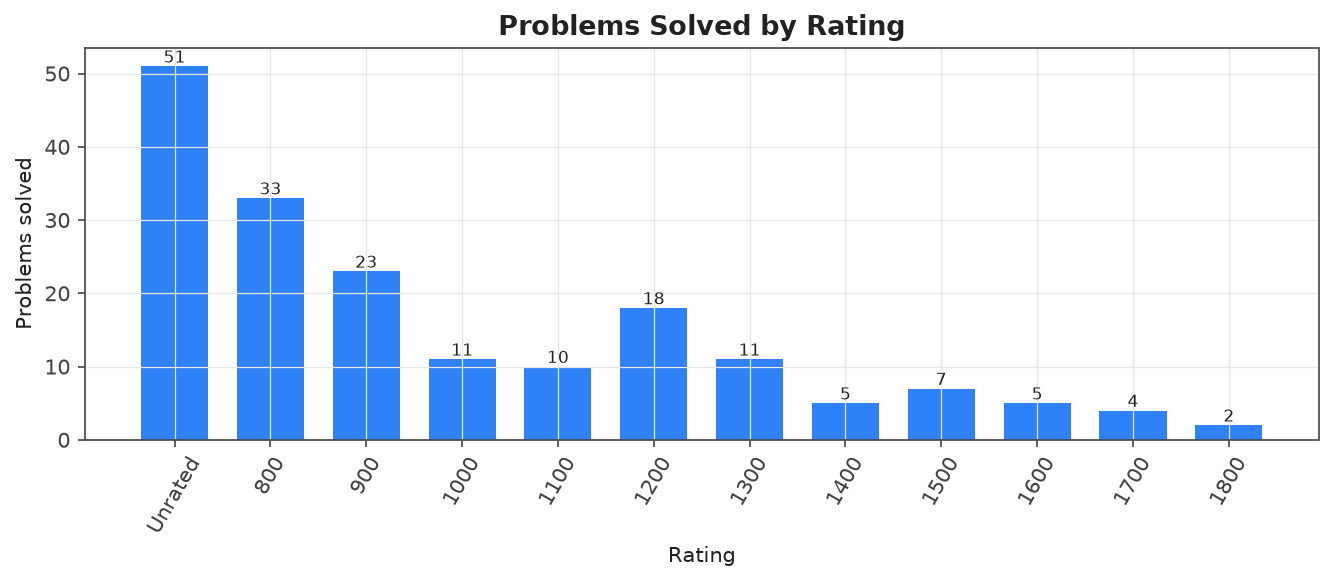
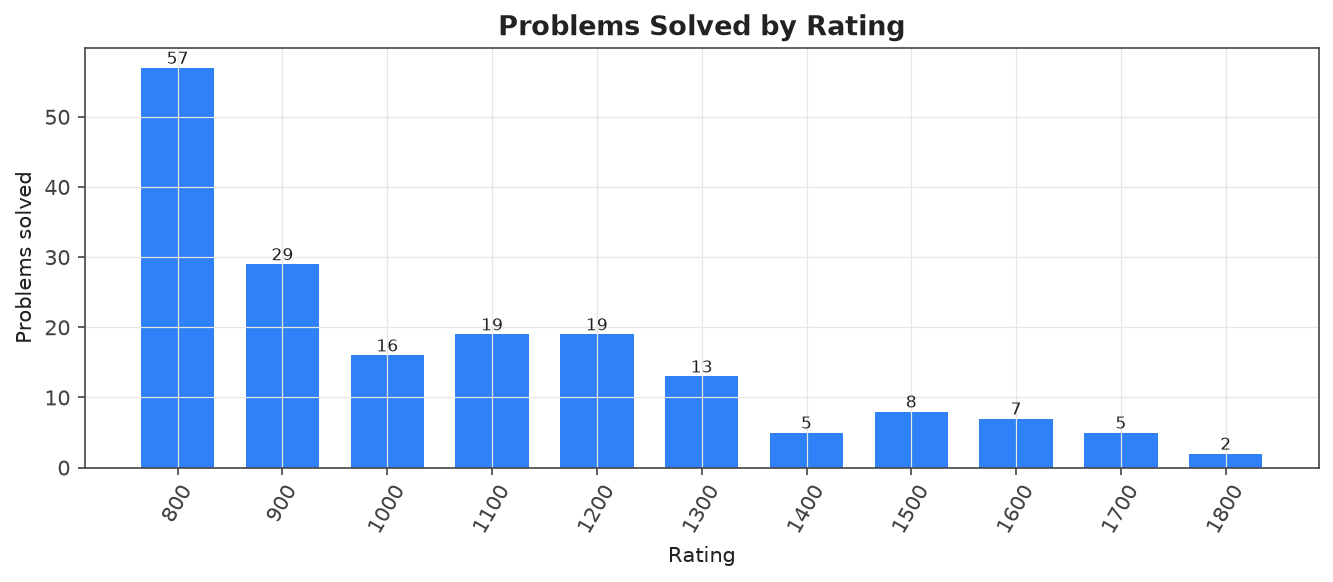
Sync: refresh analytics (rating/streak update, no new problems)

diff --git a/README.md b/README.md
@@ -37,18 +37,17 @@ Auto-generated archive of accepted Codeforces submissions for **[om_sharma_](htt
 
 | Rating | Count |
 |---|---|
-| 0800 | 33 |
-| 0900 | 23 |
-| 1000 | 11 |
-| 1100 | 10 |
-| 1200 | 18 |
-| 1300 | 11 |
+| 0800 | 57 |
+| 0900 | 29 |
+| 1000 | 16 |
+| 1100 | 19 |
+| 1200 | 19 |
+| 1300 | 13 |
 | 1400 | 5 |
-| 1500 | 7 |
-| 1600 | 5 |
-| 1700 | 4 |
+| 1500 | 8 |
+| 1600 | 7 |
+| 1700 | 5 |
 | 1800 | 2 |
-| Unrated | 51 |
 
 ### By tag
 
@@ -87,57 +86,6 @@ Auto-generated archive of accepted Codeforces submissions for **[om_sharma_](htt
 
 | # | Problem | Rating | Tags | Code | Link |
 |---|---|---|---|---|---|
-| 2209A | [Flip Flops](problems/greedy/Unrated_2209A-Flip-Flops) | ? | `greedy` | — | [CF](https://codeforces.com/contest/2209/problem/A) |
-| 2210B | [Simply Sitting on Chairs](problems/data-structures/Unrated_2210B-Simply-Sitting-on-Chairs) | ? | `data structures`, `greedy` | — | [CF](https://codeforces.com/contest/2210/problem/B) |
-| 2218A | [The 67th Integer Problem](problems/brute-force/Unrated_2218A-The-67th-Integer-Problem) | ? | `brute force`, `games`, `implementation`, `math` | — | [CF](https://codeforces.com/contest/2218/problem/A) |
-| 2233A | [AI Project Development](problems/brute-force/Unrated_2233A-AI-Project-Development) | ? | `brute force`, `math` | — | [CF](https://codeforces.com/contest/2233/problem/A) |
-| 2234A | [Euclid, Sequence and Two Numbers](problems/math/Unrated_2234A-Euclid-Sequence-and-Two-Numbers) | ? | `math`, `number theory`, `sortings` | — | [CF](https://codeforces.com/contest/2234/problem/A) |
-| 2234B | [Palindrome, Twelve and Two Terms](problems/brute-force/Unrated_2234B-Palindrome-Twelve-and-Two-Terms) | ? | `brute force`, `constructive algorithms`, `math` | — | [CF](https://codeforces.com/contest/2234/problem/B) |
-| 2236A | [Games on the Train](problems/greedy/Unrated_2236A-Games-on-the-Train) | ? | `greedy`, `math` | — | [CF](https://codeforces.com/contest/2236/problem/A) |
-| 2236B | [Tatar TV Show](problems/greedy/Unrated_2236B-Tatar-TV-Show) | ? | `greedy`, `math`, `strings` | — | [CF](https://codeforces.com/contest/2236/problem/B) |
-| 2236C | [Omsk Programmers](problems/brute-force/Unrated_2236C-Omsk-Programmers) | ? | `brute force`, `greedy`, `math` | — | [CF](https://codeforces.com/contest/2236/problem/C) |
-| 2236E | [Friendly Gifts](problems/brute-force/Unrated_2236E-Friendly-Gifts) | ? | `brute force`, `dp` | — | [CF](https://codeforces.com/contest/2236/problem/E) |
-| 2238A | [Another Puzzle from Papyrus](problems/greedy/Unrated_2238A-Another-Puzzle-from-Papyrus) | ? | `greedy`, `math`, `sortings` | — | [CF](https://codeforces.com/contest/2238/problem/A) |
-| 2238B | [Crimson Triples](problems/dp/Unrated_2238B-Crimson-Triples) | ? | `dp`, `math`, `number theory` | — | [CF](https://codeforces.com/contest/2238/problem/B) |
-| 2238D | [Storming Arasaka](problems/greedy/Unrated_2238D-Storming-Arasaka) | ? | `greedy`, `math`, `number theory` | — | [CF](https://codeforces.com/contest/2238/problem/D) |
-| 2240A | [Another Popcount Problem](problems/greedy/Unrated_2240A-Another-Popcount-Problem) | ? | `greedy` | — | [CF](https://codeforces.com/contest/2240/problem/A) |
-| 2240B | [AI Finds Nothing Here](problems/combinatorics/Unrated_2240B-AI-Finds-Nothing-Here) | ? | `combinatorics`, `math` | — | [CF](https://codeforces.com/contest/2240/problem/B) |
-| 2240C | [Nim Game Is XOR Game](problems/games/Unrated_2240C-Nim-Game-Is-XOR-Game) | ? | `games`, `greedy` | — | [CF](https://codeforces.com/contest/2240/problem/C) |
-| 2240D | [Decidophobia](problems/greedy/Unrated_2240D-Decidophobia) | ? | `greedy`, `sortings` | — | [CF](https://codeforces.com/contest/2240/problem/D) |
-| 2241A | [Divide and Conquer](problems/greedy/Unrated_2241A-Divide-and-Conquer) | ? | `greedy`, `math`, `number theory` | — | [CF](https://codeforces.com/contest/2241/problem/A) |
-| 2241C | [RemovevomeR](problems/greedy/Unrated_2241C-RemovevomeR) | ? | `greedy` | — | [CF](https://codeforces.com/contest/2241/problem/C) |
-| 2241D | [An Alternative Way](problems/dp/Unrated_2241D-An-Alternative-Way) | ? | `dp`, `greedy`, `math` | — | [CF](https://codeforces.com/contest/2241/problem/D) |
-| 2241B | [Good times Good times](problems/constructive-algorithms/Unrated_2241B-Good-times-Good-times) | ? | `constructive algorithms`, `dfs and similar`, `math` | — | [CF](https://codeforces.com/contest/2241/problem/B) |
-| 2242A | [Bigrams](problems/sortings/Unrated_2242A-Bigrams) | ? | `sortings`, `strings` | — | [CF](https://codeforces.com/contest/2242/problem/A) |
-| 2242C | [Unstable Elements](problems/brute-force/Unrated_2242C-Unstable-Elements) | ? | `brute force`, `data structures`, `implementation`, `sortings`, `two pointers` | — | [CF](https://codeforces.com/contest/2242/problem/C) |
-| 2242B | [Predominant Frequency Division](problems/data-structures/Unrated_2242B-Predominant-Frequency-Division) | ? | `data structures`, `greedy`, `implementation`, `math` | — | [CF](https://codeforces.com/contest/2242/problem/B) |
-| 2244A | [Iskander and Drawings](problems/dp/Unrated_2244A-Iskander-and-Drawings) | ? | `dp`, `games`, `greedy`, `strings` | — | [CF](https://codeforces.com/contest/2244/problem/A) |
-| 2244B | [Nikita and Books](problems/greedy/Unrated_2244B-Nikita-and-Books) | ? | `greedy`, `math`, `sortings` | — | [CF](https://codeforces.com/contest/2244/problem/B) |
-| 2244C | [Stepan and Permutation](problems/constructive-algorithms/Unrated_2244C-Stepan-and-Permutation) | ? | `constructive algorithms`, `dfs and similar`, `dsu`, `greedy`, `math`, `number theory`, `sortings` | — | [CF](https://codeforces.com/contest/2244/problem/C) |
-| 2244D | [Yaroslav and Productivity](problems/constructive-algorithms/Unrated_2244D-Yaroslav-and-Productivity) | ? | `constructive algorithms`, `dp`, `greedy`, `math`, `number theory` | — | [CF](https://codeforces.com/contest/2244/problem/D) |
-| 2245A | [Who Watches the Watchpig?](problems/greedy/Unrated_2245A-Who-Watches-the-Watchpig) | ? | `greedy` | — | [CF](https://codeforces.com/contest/2245/problem/A) |
-| 2245B | [Delete and Concatenate](problems/greedy/Unrated_2245B-Delete-and-Concatenate) | ? | `greedy` | — | [CF](https://codeforces.com/contest/2245/problem/B) |
-| 2246A | [farmpiggie and Subset Sum](problems/constructive-algorithms/Unrated_2246A-farmpiggie-and-Subset-Sum) | ? | `constructive algorithms` | — | [CF](https://codeforces.com/contest/2246/problem/A) |
-| 2246B | [ezraft and Array](problems/constructive-algorithms/Unrated_2246B-ezraft-and-Array) | ? | `constructive algorithms`, `number theory` | — | [CF](https://codeforces.com/contest/2246/problem/B) |
-| 2247A | [Zero Sum](problems/constructive-algorithms/Unrated_2247A-Zero-Sum) | ? | `constructive algorithms`, `dp`, `number theory` | — | [CF](https://codeforces.com/contest/2247/problem/A) |
-| 2247C | [Inversion of a Subsequence](problems/greedy/Unrated_2247C-Inversion-of-a-Subsequence) | ? | `greedy`, `math` | — | [CF](https://codeforces.com/contest/2247/problem/C) |
-| 2247B | [Yet Another Constructive](problems/constructive-algorithms/Unrated_2247B-Yet-Another-Constructive) | ? | `constructive algorithms` | — | [CF](https://codeforces.com/contest/2247/problem/B) |
-| 2248A | [You Delete, I Delete](problems/greedy/Unrated_2248A-You-Delete-I-Delete) | ? | `greedy` | — | [CF](https://codeforces.com/contest/2248/problem/A) |
-| 2250A | [Threshold Movement](problems/brute-force/Unrated_2250A-Threshold-Movement) | ? | `brute force`, `implementation`, `math` | — | [CF](https://codeforces.com/contest/2250/problem/A) |
-| 2252A | [Boss Fight](problems/data-structures/Unrated_2252A-Boss-Fight) | ? | `data structures`, `greedy` | — | [CF](https://codeforces.com/contest/2252/problem/A) |
-| 2252B | [Always Changing](problems/dp/Unrated_2252B-Always-Changing) | ? | `dp`, `greedy`, `math`, `strings` | — | [CF](https://codeforces.com/contest/2252/problem/B) |
-| 2253B | [Hypercarp and the Control Panel](problems/brute-force/Unrated_2253B-Hypercarp-and-the-Control-Panel) | ? | `brute force`, `data structures`, `two pointers` | — | [CF](https://codeforces.com/contest/2253/problem/B) |
-| 2253A | [The Best Card](problems/greedy/Unrated_2253A-The-Best-Card) | ? | `greedy`, `math`, `number theory` | — | [CF](https://codeforces.com/contest/2253/problem/A) |
-| 2254A | [Riptide](problems/implementation/Unrated_2254A-Riptide) | ? | `implementation`, `sortings` | — | [CF](https://codeforces.com/contest/2254/problem/A) |
-| 2254B | [Evanescent](problems/implementation/Unrated_2254B-Evanescent) | ? | `implementation`, `strings`, `two pointers` | — | [CF](https://codeforces.com/contest/2254/problem/B) |
-| 2254C1 | [Marenol (easy version)](problems/greedy/Unrated_2254C1-Marenol-easy-version) | ? | `greedy` | — | [CF](https://codeforces.com/contest/2254/problem/C1) |
-| 2256A | [Three Numbers on the Blackboard](problems/math/Unrated_2256A-Three-Numbers-on-the-Blackboard) | ? | `math`, `sortings` | — | [CF](https://codeforces.com/contest/2256/problem/A) |
-| 2256B | [Domino Tiles](problems/implementation/Unrated_2256B-Domino-Tiles) | ? | `implementation`, `math` | — | [CF](https://codeforces.com/contest/2256/problem/B) |
-| 2257A | [Creating Abbreviations](problems/brute-force/Unrated_2257A-Creating-Abbreviations) | ? | `brute force`, `strings` | — | [CF](https://codeforces.com/contest/2257/problem/A) |
-| 2257B | [Gigantomachy](problems/math/Unrated_2257B-Gigantomachy) | ? | `math` | — | [CF](https://codeforces.com/contest/2257/problem/B) |
-| 2257D | [Bermuda Rectangle](problems/binary-search/Unrated_2257D-Bermuda-Rectangle) | ? | `binary search`, `implementation`, `math`, `number theory`, `two pointers` | — | [CF](https://codeforces.com/contest/2257/problem/D) |
-| 2258A | [Odd Eraser](problems/math/Unrated_2258A-Odd-Eraser) | ? | `math` | — | [CF](https://codeforces.com/contest/2258/problem/A) |
-| 2258B1 | [Carrot Chopdown (Easy Version)](problems/brute-force/Unrated_2258B1-Carrot-Chopdown-Easy-Version) | ? | `brute force`, `games`, `math` | — | [CF](https://codeforces.com/contest/2258/problem/B1) |
 | 4A | [Watermelon](problems/brute-force/0800_4A-Watermelon) | 800 | `brute force`, `math` | — | [CF](https://codeforces.com/contest/4/problem/A) |
 | 14A | [Letter](problems/implementation/0800_14A-Letter) | 800 | `implementation` | — | [CF](https://codeforces.com/contest/14/problem/A) |
 | 71A | [Way Too Long Words](problems/strings/0800_71A-Way-Too-Long-Words) | 800 | `strings` | — | [CF](https://codeforces.com/contest/71/problem/A) |
@@ -168,9 +116,33 @@ Auto-generated archive of accepted Codeforces submissions for **[om_sharma_](htt
 | 2182B | [New Year Cake](problems/brute-force/0800_2182B-New-Year-Cake) | 800 | `brute force` | — | [CF](https://codeforces.com/contest/2182/problem/B) |
 | 2185A | [Perfect Root](problems/constructive-algorithms/0800_2185A-Perfect-Root) | 800 | `constructive algorithms`, `math` | — | [CF](https://codeforces.com/contest/2185/problem/A) |
 | 2185B | [Prefix Max](problems/greedy/0800_2185B-Prefix-Max) | 800 | `greedy` | — | [CF](https://codeforces.com/contest/2185/problem/B) |
-| 2185C | [Shifted MEX](problems/implementation/0800_2185C-Shifted-MEX) | 800 | `implementation`, `sortings` | — | [CF](https://codeforces.com/contest/2185/problem/C) |
 | 2188A | [Divisible Permutation](problems/constructive-algorithms/0800_2188A-Divisible-Permutation) | 800 | `constructive algorithms` | — | [CF](https://codeforces.com/contest/2188/problem/A) |
 | 2195A | [Sieve of Erato67henes](problems/math/0800_2195A-Sieve-of-Erato67henes) | 800 | `math`, `number theory` | — | [CF](https://codeforces.com/contest/2195/problem/A) |
+| 2209A | [Flip Flops](problems/greedy/0800_2209A-Flip-Flops) | 800 | `greedy` | — | [CF](https://codeforces.com/contest/2209/problem/A) |
+| 2218A | [The 67th Integer Problem](problems/brute-force/0800_2218A-The-67th-Integer-Problem) | 800 | `brute force`, `games`, `implementation`, `math` | — | [CF](https://codeforces.com/contest/2218/problem/A) |
+| 2233A | [AI Project Development](problems/brute-force/0800_2233A-AI-Project-Development) | 800 | `brute force`, `math` | — | [CF](https://codeforces.com/contest/2233/problem/A) |
+| 2234A | [Euclid, Sequence and Two Numbers](problems/math/0800_2234A-Euclid-Sequence-and-Two-Numbers) | 800 | `math`, `number theory`, `sortings` | — | [CF](https://codeforces.com/contest/2234/problem/A) |
+| 2234B | [Palindrome, Twelve and Two Terms](problems/brute-force/0800_2234B-Palindrome-Twelve-and-Two-Terms) | 800 | `brute force`, `constructive algorithms`, `math` | — | [CF](https://codeforces.com/contest/2234/problem/B) |
+| 2236A | [Games on the Train](problems/greedy/0800_2236A-Games-on-the-Train) | 800 | `greedy`, `math` | — | [CF](https://codeforces.com/contest/2236/problem/A) |
+| 2236B | [Tatar TV Show](problems/greedy/0800_2236B-Tatar-TV-Show) | 800 | `greedy`, `math`, `strings` | — | [CF](https://codeforces.com/contest/2236/problem/B) |
+| 2238A | [Another Puzzle from Papyrus](problems/greedy/0800_2238A-Another-Puzzle-from-Papyrus) | 800 | `greedy`, `math`, `sortings` | — | [CF](https://codeforces.com/contest/2238/problem/A) |
+| 2240A | [Another Popcount Problem](problems/greedy/0800_2240A-Another-Popcount-Problem) | 800 | `greedy` | — | [CF](https://codeforces.com/contest/2240/problem/A) |
+| 2241A | [Divide and Conquer](problems/greedy/0800_2241A-Divide-and-Conquer) | 800 | `greedy`, `math`, `number theory` | — | [CF](https://codeforces.com/contest/2241/problem/A) |
+| 2242A | [Bigrams](problems/sortings/0800_2242A-Bigrams) | 800 | `sortings`, `strings` | — | [CF](https://codeforces.com/contest/2242/problem/A) |
+| 2244A | [Iskander and Drawings](problems/dp/0800_2244A-Iskander-and-Drawings) | 800 | `dp`, `games`, `greedy`, `strings` | — | [CF](https://codeforces.com/contest/2244/problem/A) |
+| 2244B | [Nikita and Books](problems/greedy/0800_2244B-Nikita-and-Books) | 800 | `greedy`, `math`, `sortings` | — | [CF](https://codeforces.com/contest/2244/problem/B) |
+| 2245A | [Who Watches the Watchpig?](problems/greedy/0800_2245A-Who-Watches-the-Watchpig) | 800 | `greedy` | — | [CF](https://codeforces.com/contest/2245/problem/A) |
+| 2246A | [farmpiggie and Subset Sum](problems/constructive-algorithms/0800_2246A-farmpiggie-and-Subset-Sum) | 800 | `constructive algorithms` | — | [CF](https://codeforces.com/contest/2246/problem/A) |
+| 2247A | [Zero Sum](problems/constructive-algorithms/0800_2247A-Zero-Sum) | 800 | `constructive algorithms`, `dp`, `number theory` | — | [CF](https://codeforces.com/contest/2247/problem/A) |
+| 2248A | [You Delete, I Delete](problems/greedy/0800_2248A-You-Delete-I-Delete) | 800 | `greedy` | — | [CF](https://codeforces.com/contest/2248/problem/A) |
+| 2250A | [Threshold Movement](problems/brute-force/0800_2250A-Threshold-Movement) | 800 | `brute force`, `implementation`, `math` | — | [CF](https://codeforces.com/contest/2250/problem/A) |
+| 2252A | [Boss Fight](problems/data-structures/0800_2252A-Boss-Fight) | 800 | `data structures`, `greedy` | — | [CF](https://codeforces.com/contest/2252/problem/A) |
+| 2253A | [The Best Card](problems/greedy/0800_2253A-The-Best-Card) | 800 | `greedy`, `math`, `number theory` | — | [CF](https://codeforces.com/contest/2253/problem/A) |
+| 2254A | [Riptide](problems/implementation/0800_2254A-Riptide) | 800 | `implementation`, `sortings` | — | [CF](https://codeforces.com/contest/2254/problem/A) |
+| 2256A | [Three Numbers on the Blackboard](problems/math/0800_2256A-Three-Numbers-on-the-Blackboard) | 800 | `math`, `sortings` | — | [CF](https://codeforces.com/contest/2256/problem/A) |
+| 2257A | [Creating Abbreviations](problems/brute-force/0800_2257A-Creating-Abbreviations) | 800 | `brute force`, `strings` | — | [CF](https://codeforces.com/contest/2257/problem/A) |
+| 2257B | [Gigantomachy](problems/math/0800_2257B-Gigantomachy) | 800 | `math` | — | [CF](https://codeforces.com/contest/2257/problem/B) |
+| 2258A | [Odd Eraser](problems/math/0800_2258A-Odd-Eraser) | 800 | `math` | — | [CF](https://codeforces.com/contest/2258/problem/A) |
 | 337A | [Puzzles](problems/greedy/0900_337A-Puzzles) | 900 | `greedy` | — | [CF](https://codeforces.com/contest/337/problem/A) |
 | 1374B | [Multiply by 2, divide by 6](problems/math/0900_1374B-Multiply-by-2-divide-by-6) | 900 | `math` | — | [CF](https://codeforces.com/contest/1374/problem/B) |
 | 1440B | [Sum of Medians](problems/greedy/0900_1440B-Sum-of-Medians) | 900 | `greedy`, `math` | — | [CF](https://codeforces.com/contest/1440/problem/B) |
@@ -192,8 +164,14 @@ Auto-generated archive of accepted Codeforces submissions for **[om_sharma_](htt
 | 1878C | [Vasilije in Cacak](problems/math/0900_1878C-Vasilije-in-Cacak) | 900 | `math` | — | [CF](https://codeforces.com/contest/1878/problem/C) |
 | 1883B | [Chemistry](problems/strings/0900_1883B-Chemistry) | 900 | `strings` | — | [CF](https://codeforces.com/contest/1883/problem/B) |
 | 1904A | [Forked!](problems/brute-force/0900_1904A-Forked) | 900 | `brute force`, `implementation` | — | [CF](https://codeforces.com/contest/1904/problem/A) |
-| 2193C | [Replace and Sum](problems/data-structures/0900_2193C-Replace-and-Sum) | 900 | `data structures`, `greedy` | — | [CF](https://codeforces.com/contest/2193/problem/C) |
+| 2185C | [Shifted MEX](problems/implementation/0900_2185C-Shifted-MEX) | 900 | `implementation`, `sortings` | — | [CF](https://codeforces.com/contest/2185/problem/C) |
 | 2195B | [Heapify 1](problems/implementation/0900_2195B-Heapify-1) | 900 | `implementation`, `sortings` | — | [CF](https://codeforces.com/contest/2195/problem/B) |
+| 2210B | [Simply Sitting on Chairs](problems/data-structures/0900_2210B-Simply-Sitting-on-Chairs) | 900 | `data structures`, `greedy` | — | [CF](https://codeforces.com/contest/2210/problem/B) |
+| 2238B | [Crimson Triples](problems/dp/0900_2238B-Crimson-Triples) | 900 | `dp`, `math`, `number theory` | — | [CF](https://codeforces.com/contest/2238/problem/B) |
+| 2246B | [ezraft and Array](problems/constructive-algorithms/0900_2246B-ezraft-and-Array) | 900 | `constructive algorithms`, `number theory` | — | [CF](https://codeforces.com/contest/2246/problem/B) |
+| 2247B | [Yet Another Constructive](problems/constructive-algorithms/0900_2247B-Yet-Another-Constructive) | 900 | `constructive algorithms` | — | [CF](https://codeforces.com/contest/2247/problem/B) |
+| 2254B | [Evanescent](problems/implementation/0900_2254B-Evanescent) | 900 | `implementation`, `strings`, `two pointers` | — | [CF](https://codeforces.com/contest/2254/problem/B) |
+| 2258B1 | [Carrot Chopdown (Easy Version)](problems/brute-force/0900_2258B1-Carrot-Chopdown-Easy-Version) | 900 | `brute force`, `games`, `math` | — | [CF](https://codeforces.com/contest/2258/problem/B1) |
 | 1A | [Theatre Square](problems/math/1000_1A-Theatre-Square) | 1000 | `math` | — | [CF](https://codeforces.com/contest/1/problem/A) |
 | 14B | [Young Photographer](problems/implementation/1000_14B-Young-Photographer) | 1000 | `implementation` | — | [CF](https://codeforces.com/contest/14/problem/B) |
 | 43A | [Football](problems/strings/1000_43A-Football) | 1000 | `strings` | — | [CF](https://codeforces.com/contest/43/problem/A) |
@@ -204,7 +182,12 @@ Auto-generated archive of accepted Codeforces submissions for **[om_sharma_](htt
 | 1784A | [Monsters (easy version)](problems/brute-force/1000_1784A-Monsters-easy-version) | 1000 | `brute force`, `greedy` | — | [CF](https://codeforces.com/contest/1784/problem/A) |
 | 1883C | [Raspberries](problems/dp/1000_1883C-Raspberries) | 1000 | `dp`, `math` | — | [CF](https://codeforces.com/contest/1883/problem/C) |
 | 1913B | [Swap and Delete](problems/strings/1000_1913B-Swap-and-Delete) | 1000 | `strings` | — | [CF](https://codeforces.com/contest/1913/problem/B) |
-| 2169B | [Drifting Away](problems/greedy/1000_2169B-Drifting-Away) | 1000 | `greedy`, `implementation` | — | [CF](https://codeforces.com/contest/2169/problem/B) |
+| 2193C | [Replace and Sum](problems/data-structures/1000_2193C-Replace-and-Sum) | 1000 | `data structures`, `greedy` | — | [CF](https://codeforces.com/contest/2193/problem/C) |
+| 2236C | [Omsk Programmers](problems/brute-force/1000_2236C-Omsk-Programmers) | 1000 | `brute force`, `greedy`, `math` | — | [CF](https://codeforces.com/contest/2236/problem/C) |
+| 2241C | [RemovevomeR](problems/greedy/1000_2241C-RemovevomeR) | 1000 | `greedy` | — | [CF](https://codeforces.com/contest/2241/problem/C) |
+| 2242B | [Predominant Frequency Division](problems/data-structures/1000_2242B-Predominant-Frequency-Division) | 1000 | `data structures`, `greedy`, `implementation`, `math` | — | [CF](https://codeforces.com/contest/2242/problem/B) |
+| 2254C1 | [Marenol (easy version)](problems/greedy/1000_2254C1-Marenol-easy-version) | 1000 | `greedy` | — | [CF](https://codeforces.com/contest/2254/problem/C1) |
+| 2256B | [Domino Tiles](problems/implementation/1000_2256B-Domino-Tiles) | 1000 | `implementation`, `math` | — | [CF](https://codeforces.com/contest/2256/problem/B) |
 | 919B | [Perfect Number](problems/binary-search/1100_919B-Perfect-Number) | 1100 | `binary search`, `brute force`, `dp`, `implementation`, `number theory` | — | [CF](https://codeforces.com/contest/919/problem/B) |
 | 1708B | [Difference of GCDs](problems/constructive-algorithms/1100_1708B-Difference-of-GCDs) | 1100 | `constructive algorithms`, `math` | — | [CF](https://codeforces.com/contest/1708/problem/B) |
 | 1826B | [Lunatic Never Content](problems/math/1100_1826B-Lunatic-Never-Content) | 1100 | `math`, `number theory` | — | [CF](https://codeforces.com/contest/1826/problem/B) |
@@ -215,6 +198,15 @@ Auto-generated archive of accepted Codeforces submissions for **[om_sharma_](htt
 | 2063B | [Subsequence Update](problems/constructive-algorithms/1100_2063B-Subsequence-Update) | 1100 | `constructive algorithms`, `data structures`, `greedy`, `sortings` | — | [CF](https://codeforces.com/contest/2063/problem/B) |
 | 2065C1 | [Skibidus and Fanum Tax (easy version)](problems/binary-search/1100_2065C1-Skibidus-and-Fanum-Tax-easy-version) | 1100 | `binary search`, `dp`, `greedy` | — | [CF](https://codeforces.com/contest/2065/problem/C1) |
 | 2138A | [Cake Assignment](problems/bitmasks/1100_2138A-Cake-Assignment) | 1100 | `bitmasks`, `constructive algorithms`, `greedy` | — | [CF](https://codeforces.com/contest/2138/problem/A) |
+| 2169B | [Drifting Away](problems/greedy/1100_2169B-Drifting-Away) | 1100 | `greedy`, `implementation` | — | [CF](https://codeforces.com/contest/2169/problem/B) |
+| 2240B | [AI Finds Nothing Here](problems/combinatorics/1100_2240B-AI-Finds-Nothing-Here) | 1100 | `combinatorics`, `math` | — | [CF](https://codeforces.com/contest/2240/problem/B) |
+| 2241D | [An Alternative Way](problems/dp/1100_2241D-An-Alternative-Way) | 1100 | `dp`, `greedy`, `math` | — | [CF](https://codeforces.com/contest/2241/problem/D) |
+| 2241B | [Good times Good times](problems/constructive-algorithms/1100_2241B-Good-times-Good-times) | 1100 | `constructive algorithms`, `dfs and similar`, `math` | — | [CF](https://codeforces.com/contest/2241/problem/B) |
+| 2244C | [Stepan and Permutation](problems/constructive-algorithms/1100_2244C-Stepan-and-Permutation) | 1100 | `constructive algorithms`, `dfs and similar`, `dsu`, `greedy`, `math`, `number theory`, `sortings` | — | [CF](https://codeforces.com/contest/2244/problem/C) |
+| 2245B | [Delete and Concatenate](problems/greedy/1100_2245B-Delete-and-Concatenate) | 1100 | `greedy` | — | [CF](https://codeforces.com/contest/2245/problem/B) |
+| 2247C | [Inversion of a Subsequence](problems/greedy/1100_2247C-Inversion-of-a-Subsequence) | 1100 | `greedy`, `math` | — | [CF](https://codeforces.com/contest/2247/problem/C) |
+| 2252B | [Always Changing](problems/dp/1100_2252B-Always-Changing) | 1100 | `dp`, `greedy`, `math`, `strings` | — | [CF](https://codeforces.com/contest/2252/problem/B) |
+| 2253B | [Hypercarp and the Control Panel](problems/brute-force/1100_2253B-Hypercarp-and-the-Control-Panel) | 1100 | `brute force`, `data structures`, `two pointers` | — | [CF](https://codeforces.com/contest/2253/problem/B) |
 | 4B | [Before an Exam](problems/constructive-algorithms/1200_4B-Before-an-Exam) | 1200 | `constructive algorithms`, `greedy` | — | [CF](https://codeforces.com/contest/4/problem/B) |
 | 101A | [Homework](problems/greedy/1200_101A-Homework) | 1200 | `greedy` | — | [CF](https://codeforces.com/contest/101/problem/A) |
 | 961B | [Lecture Sleep](problems/data-structures/1200_961B-Lecture-Sleep) | 1200 | `data structures`, `dp`, `implementation`, `two pointers` | — | [CF](https://codeforces.com/contest/961/problem/B) |
@@ -233,6 +225,7 @@ Auto-generated archive of accepted Codeforces submissions for **[om_sharma_](htt
 | 2053B | [Outstanding Impressionist](problems/binary-search/1200_2053B-Outstanding-Impressionist) | 1200 | `binary search`, `brute force`, `data structures`, `greedy` | — | [CF](https://codeforces.com/contest/2053/problem/B) |
 | 2109B | [Slice to Survive](problems/bitmasks/1200_2109B-Slice-to-Survive) | 1200 | `bitmasks`, `greedy`, `math` | — | [CF](https://codeforces.com/contest/2109/problem/B) |
 | 2196A | [Game with a Fraction](problems/games/1200_2196A-Game-with-a-Fraction) | 1200 | `games`, `math` | — | [CF](https://codeforces.com/contest/2196/problem/A) |
+| 2244D | [Yaroslav and Productivity](problems/constructive-algorithms/1200_2244D-Yaroslav-and-Productivity) | 1200 | `constructive algorithms`, `dp`, `greedy`, `math`, `number theory` | — | [CF](https://codeforces.com/contest/2244/problem/D) |
 | 4C | [Registration System](problems/data-structures/1300_4C-Registration-System) | 1300 | `data structures`, `hashing`, `implementation` | — | [CF](https://codeforces.com/contest/4/problem/C) |
 | 230B | [T-primes](problems/binary-search/1300_230B-T-primes) | 1300 | `binary search`, `implementation`, `math`, `number theory` | — | [CF](https://codeforces.com/contest/230/problem/B) |
 | 665C | [Simple Strings](problems/dp/1300_665C-Simple-Strings) | 1300 | `dp`, `greedy`, `strings` | — | [CF](https://codeforces.com/contest/665/problem/C) |
@@ -244,6 +237,8 @@ Auto-generated archive of accepted Codeforces submissions for **[om_sharma_](htt
 | 2041A | [The Bento Box Adventure](problems/implementation/1300_2041A-The-Bento-Box-Adventure) | 1300 | `implementation`, `sortings` | — | [CF](https://codeforces.com/contest/2041/problem/A) |
 | 2049B | [pspspsps](problems/brute-force/1300_2049B-pspspsps) | 1300 | `brute force`, `constructive algorithms`, `graph matchings`, `implementation` | — | [CF](https://codeforces.com/contest/2049/problem/B) |
 | 2116B | [Gellyfish and Baby's Breath](problems/greedy/1300_2116B-Gellyfish-and-Babys-Breath) | 1300 | `greedy`, `math`, `sortings` | — | [CF](https://codeforces.com/contest/2116/problem/B) |
+| 2240C | [Nim Game Is XOR Game](problems/games/1300_2240C-Nim-Game-Is-XOR-Game) | 1300 | `games`, `greedy` | — | [CF](https://codeforces.com/contest/2240/problem/C) |
+| 2242C | [Unstable Elements](problems/brute-force/1300_2242C-Unstable-Elements) | 1300 | `brute force`, `data structures`, `implementation`, `sortings`, `two pointers` | — | [CF](https://codeforces.com/contest/2242/problem/C) |
 | 279B | [Books](problems/binary-search/1400_279B-Books) | 1400 | `binary search`, `brute force`, `implementation`, `two pointers` | — | [CF](https://codeforces.com/contest/279/problem/B) |
 | 1974D | [Ingenuity-2](problems/constructive-algorithms/1400_1974D-Ingenuity-2) | 1400 | `constructive algorithms`, `greedy`, `implementation` | — | [CF](https://codeforces.com/contest/1974/problem/D) |
 | 2038L | [Bridge Renovation](problems/brute-force/1400_2038L-Bridge-Renovation) | 1400 | `brute force`, `dp`, `greedy`, `math`, `two pointers` | — | [CF](https://codeforces.com/contest/2038/problem/L) |
@@ -256,14 +251,18 @@ Auto-generated archive of accepted Codeforces submissions for **[om_sharma_](htt
 | 1933E | [Turtle vs. Rabbit Race: Optimal Trainings](problems/binary-search/1500_1933E-Turtle-vs.-Rabbit-Race-Optimal-Trainings) | 1500 | `binary search`, `implementation`, `math`, `ternary search` | — | [CF](https://codeforces.com/contest/1933/problem/E) |
 | 2050E | [Three Strings](problems/dp/1500_2050E-Three-Strings) | 1500 | `dp`, `implementation`, `strings` | — | [CF](https://codeforces.com/contest/2050/problem/E) |
 | 2072E | [Do You Love Your Hero and His Two-Hit Multi-Target Attacks?](problems/binary-search/1500_2072E-Do-You-Love-Your-Hero-and-His-Two-Hit-Multi-Target-Attacks) | 1500 | `binary search`, `brute force`, `constructive algorithms`, `dp`, `geometry`, `greedy`, `math` | — | [CF](https://codeforces.com/contest/2072/problem/E) |
+| 2238D | [Storming Arasaka](problems/greedy/1500_2238D-Storming-Arasaka) | 1500 | `greedy`, `math`, `number theory` | — | [CF](https://codeforces.com/contest/2238/problem/D) |
 | 150B | [Quantity of Strings](problems/combinatorics/1600_150B-Quantity-of-Strings) | 1600 | `combinatorics`, `dfs and similar`, `graphs`, `math` | — | [CF](https://codeforces.com/contest/150/problem/B) |
 | 1610C | [Keshi Is Throwing a Party](problems/binary-search/1600_1610C-Keshi-Is-Throwing-a-Party) | 1600 | `binary search`, `greedy` | — | [CF](https://codeforces.com/contest/1610/problem/C) |
 | 1730B | [Meeting on the Line](problems/binary-search/1600_1730B-Meeting-on-the-Line) | 1600 | `binary search`, `geometry`, `greedy`, `implementation`, `math`, `ternary search` | — | [CF](https://codeforces.com/contest/1730/problem/B) |
 | 2040C | [Ordered Permutations](problems/bitmasks/1600_2040C-Ordered-Permutations) | 1600 | `bitmasks`, `combinatorics`, `constructive algorithms`, `greedy`, `math`, `two pointers` | — | [CF](https://codeforces.com/contest/2040/problem/C) |
 | 2048D | [Kevin and Competition Memories](problems/binary-search/1600_2048D-Kevin-and-Competition-Memories) | 1600 | `binary search`, `brute force`, `data structures`, `greedy`, `sortings`, `two pointers` | — | [CF](https://codeforces.com/contest/2048/problem/D) |
+| 2240D | [Decidophobia](problems/greedy/1600_2240D-Decidophobia) | 1600 | `greedy`, `sortings` | — | [CF](https://codeforces.com/contest/2240/problem/D) |
+| 2257D | [Bermuda Rectangle](problems/binary-search/1600_2257D-Bermuda-Rectangle) | 1600 | `binary search`, `implementation`, `math`, `number theory`, `two pointers` | — | [CF](https://codeforces.com/contest/2257/problem/D) |
 | 14C | [Four Segments](problems/brute-force/1700_14C-Four-Segments) | 1700 | `brute force`, `constructive algorithms`, `geometry`, `implementation`, `math` | — | [CF](https://codeforces.com/contest/14/problem/C) |
 | 474D | [Flowers](problems/dp/1700_474D-Flowers) | 1700 | `dp` | — | [CF](https://codeforces.com/contest/474/problem/D) |
 | 2045A | [Scrambled Scrabble](problems/brute-force/1700_2045A-Scrambled-Scrabble) | 1700 | `brute force`, `greedy` | — | [CF](https://codeforces.com/contest/2045/problem/A) |
 | 2206J | [Worldwide Playlist](problems/math/1700_2206J-Worldwide-Playlist) | 1700 | `math` | — | [CF](https://codeforces.com/contest/2206/problem/J) |
+| 2236E | [Friendly Gifts](problems/brute-force/1700_2236E-Friendly-Gifts) | 1700 | `brute force`, `dp` | — | [CF](https://codeforces.com/contest/2236/problem/E) |
 | 15B | [Laser](problems/math/1800_15B-Laser) | 1800 | `math` | — | [CF](https://codeforces.com/contest/15/problem/B) |
 | 2106E | [Wolf](problems/binary-search/1800_2106E-Wolf) | 1800 | `binary search`, `greedy`, `math` | — | [CF](https://codeforces.com/contest/2106/problem/E) |
